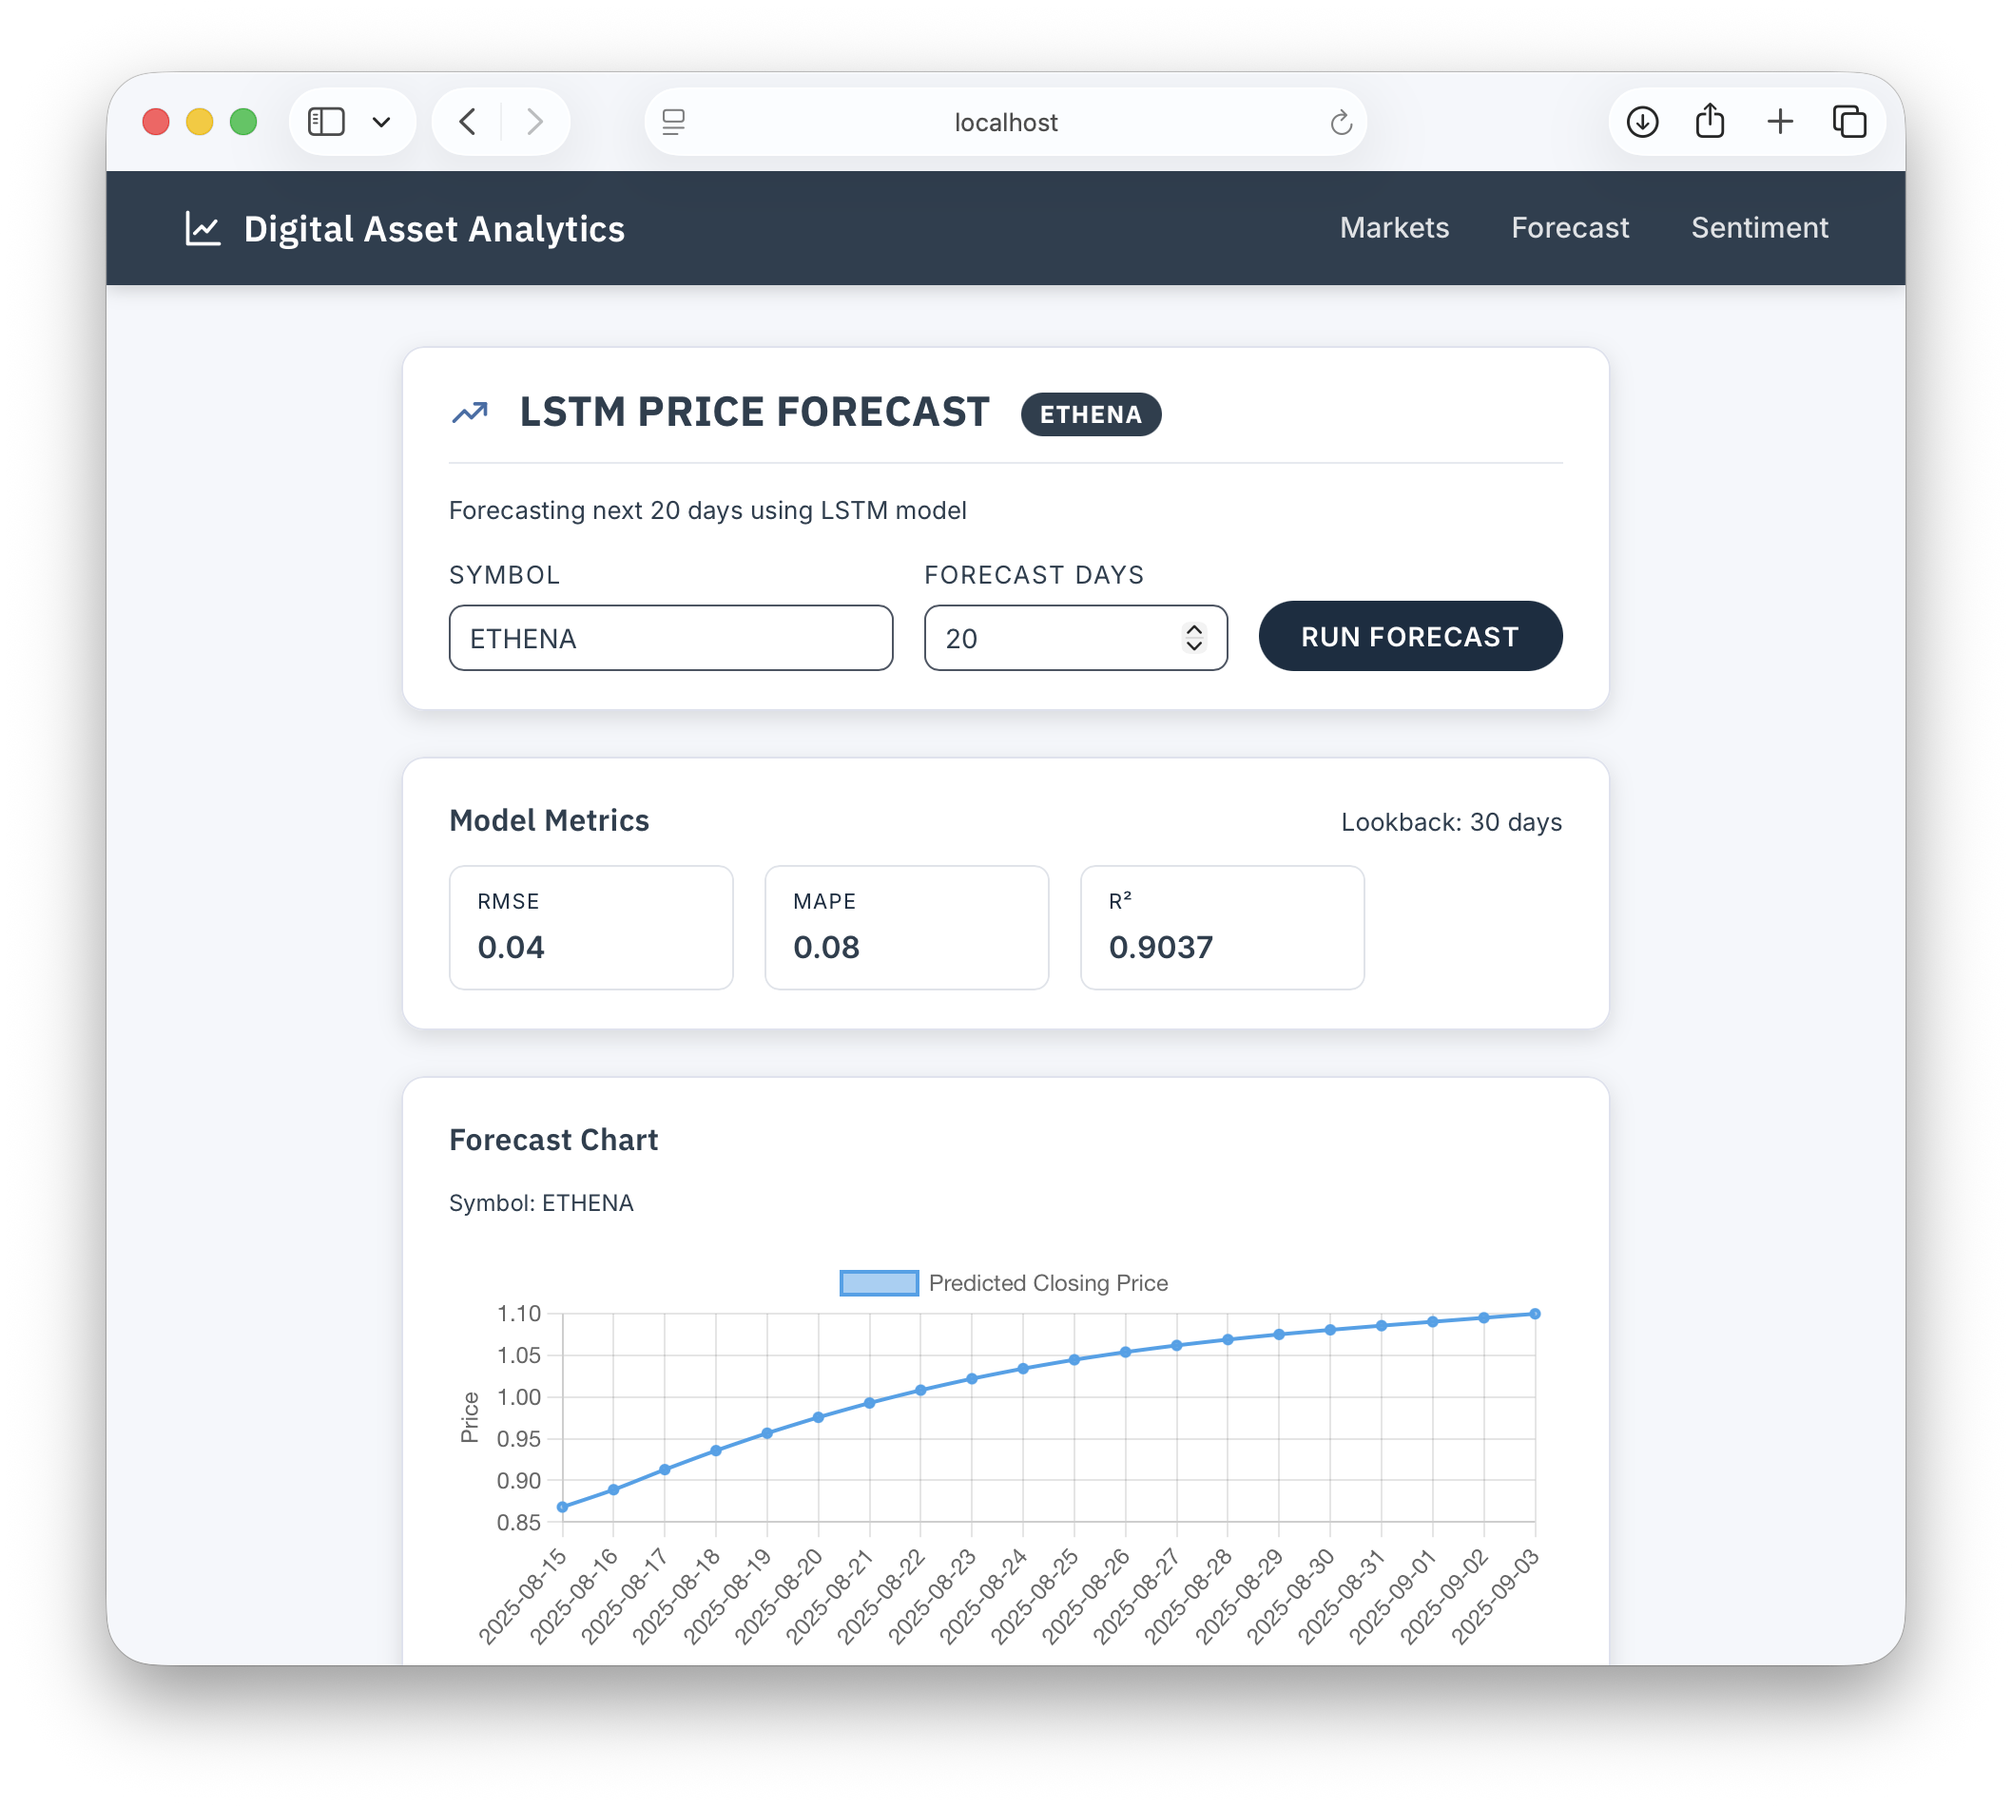
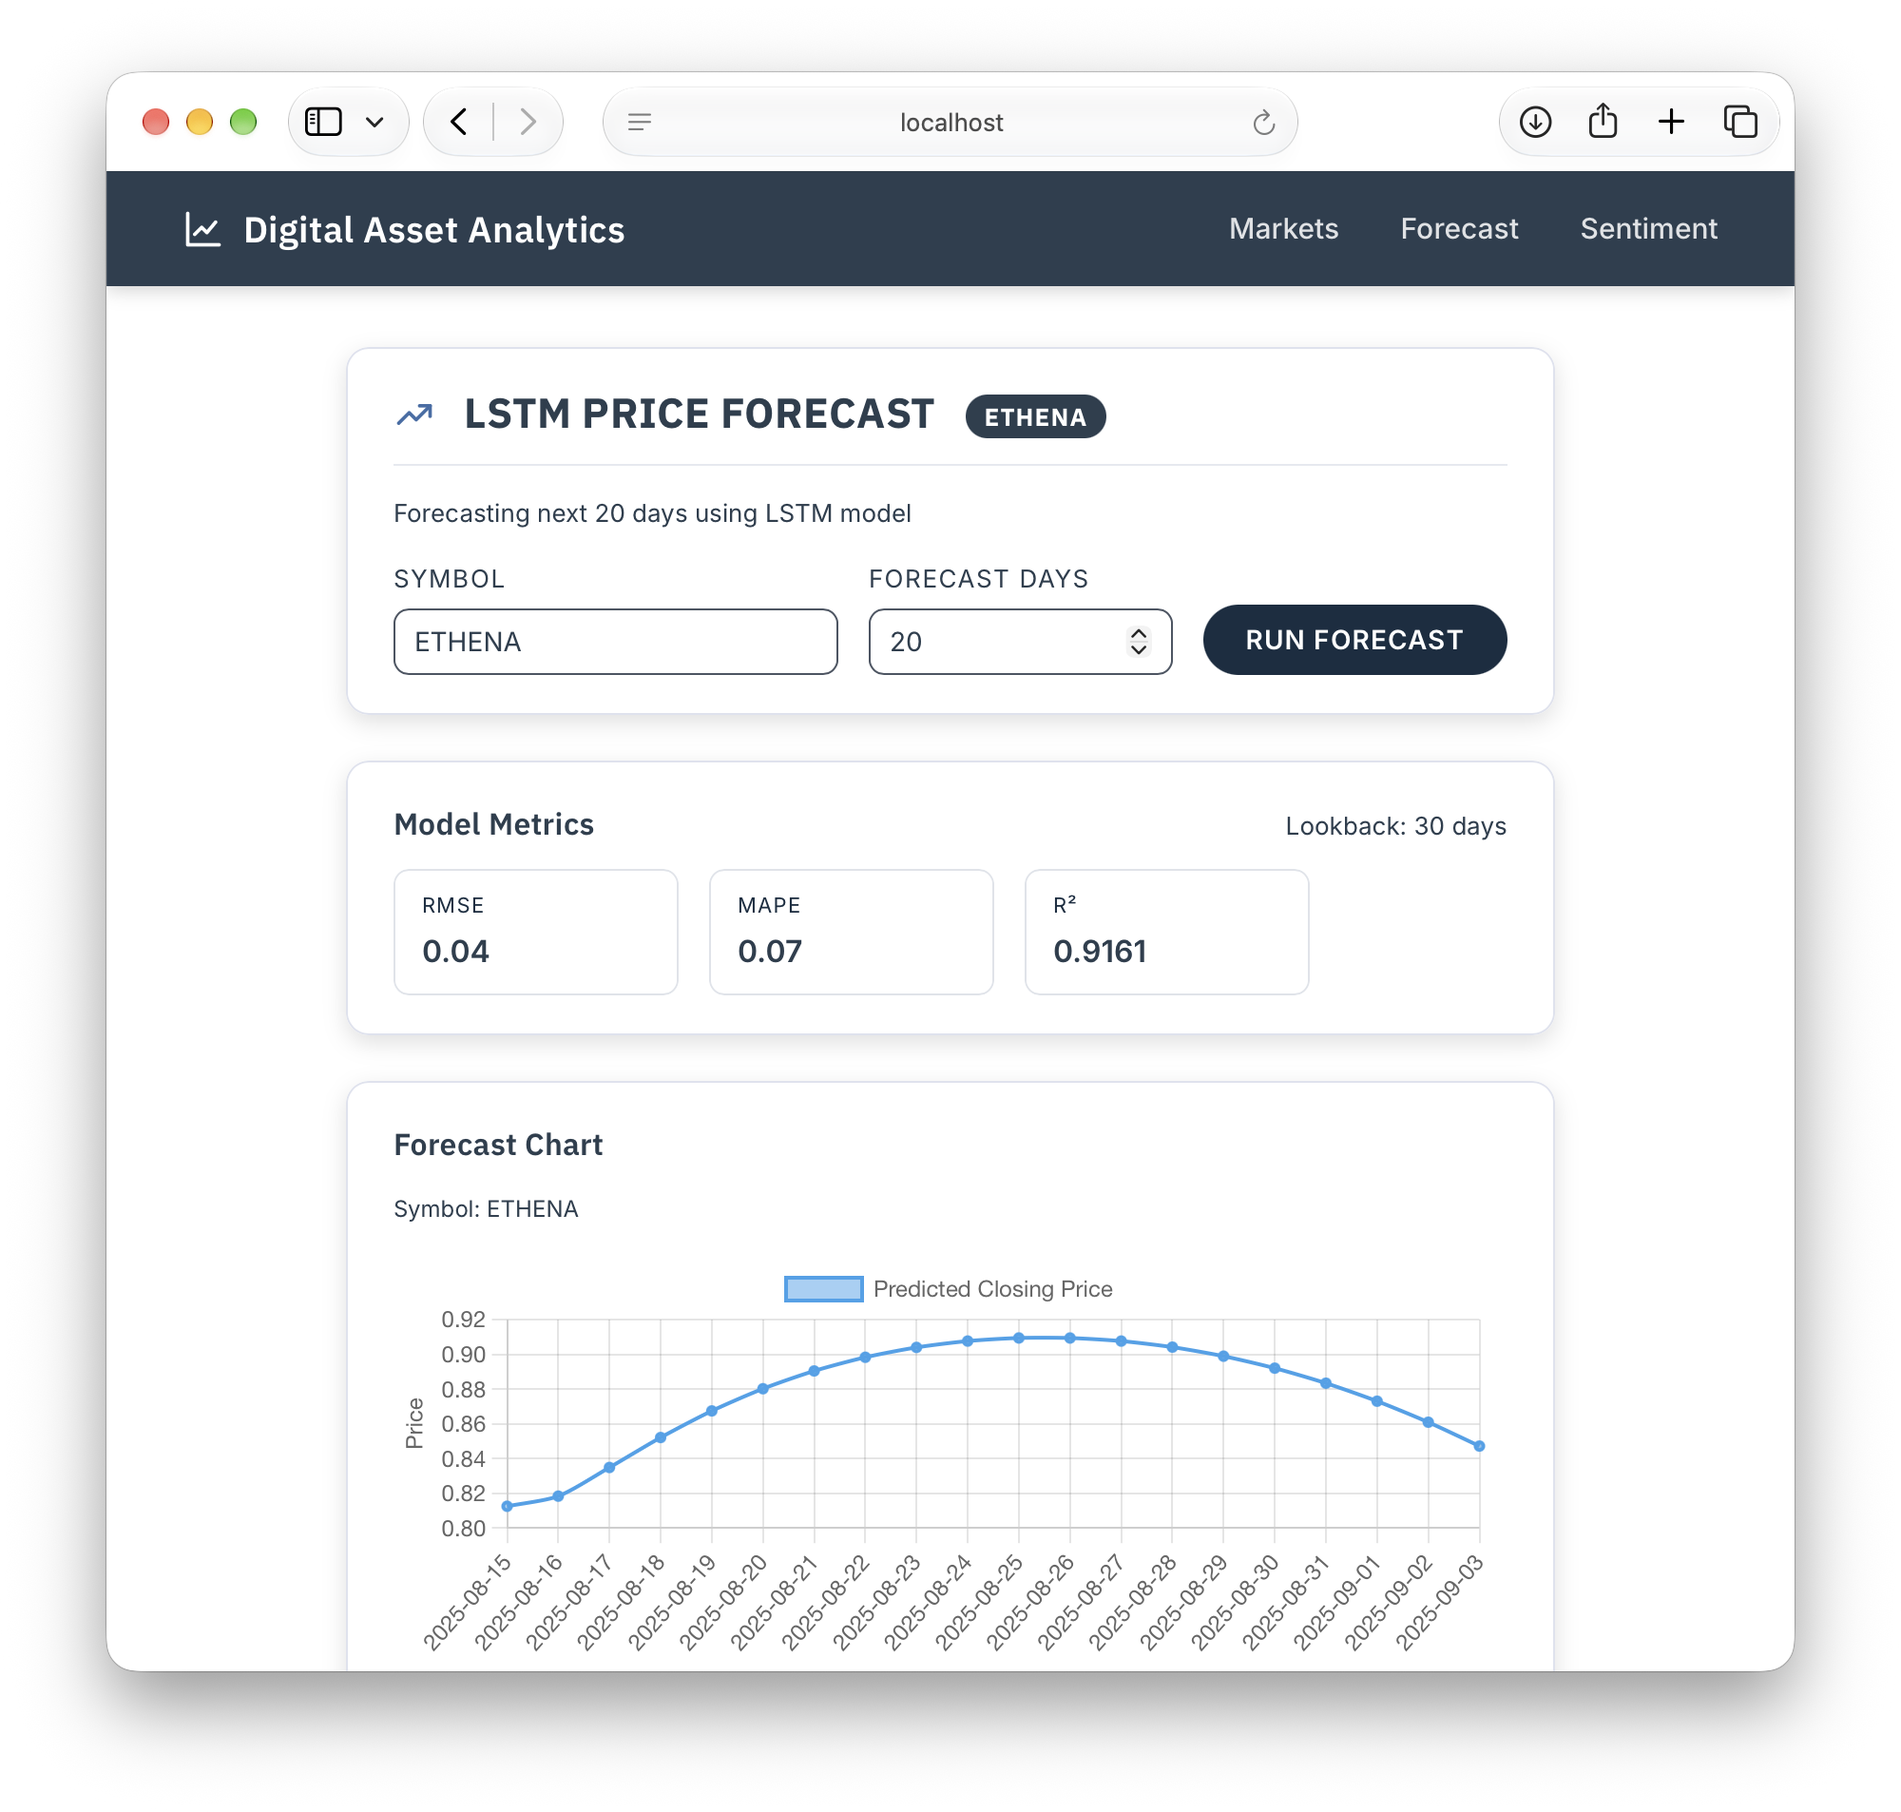
color fix

diff --git a/analytics/src/main/resources/static/css/style.css b/analytics/src/main/resources/static/css/style.css
@@ -11,7 +11,7 @@ body {
     color: #2c3e50;
     -webkit-font-smoothing: antialiased;
     text-rendering: optimizeLegibility;
-    background: linear-gradient(to bottom, #eef1f5 0%, #dfe3e8 100%);
+    background: #ffffff;
     min-height: 100vh;
     display: flex;
     flex-direction: column;

diff --git a/analytics/src/main/resources/static/css/lstm.css b/analytics/src/main/resources/static/css/lstm.css
@@ -3,7 +3,7 @@ h1, h2, p, small, span {
 }
 
 body {
-    background: #f4f7fb;
+    background: #ffffff;
 }
 
 .page-container {

diff --git a/analytics/src/main/resources/static/css/lstm-form.css b/analytics/src/main/resources/static/css/lstm-form.css
@@ -1,5 +1,5 @@
 body {
-    background: #f4f7fb;
+    background: #ffffff;
 }
 
 .page-wrapper {
